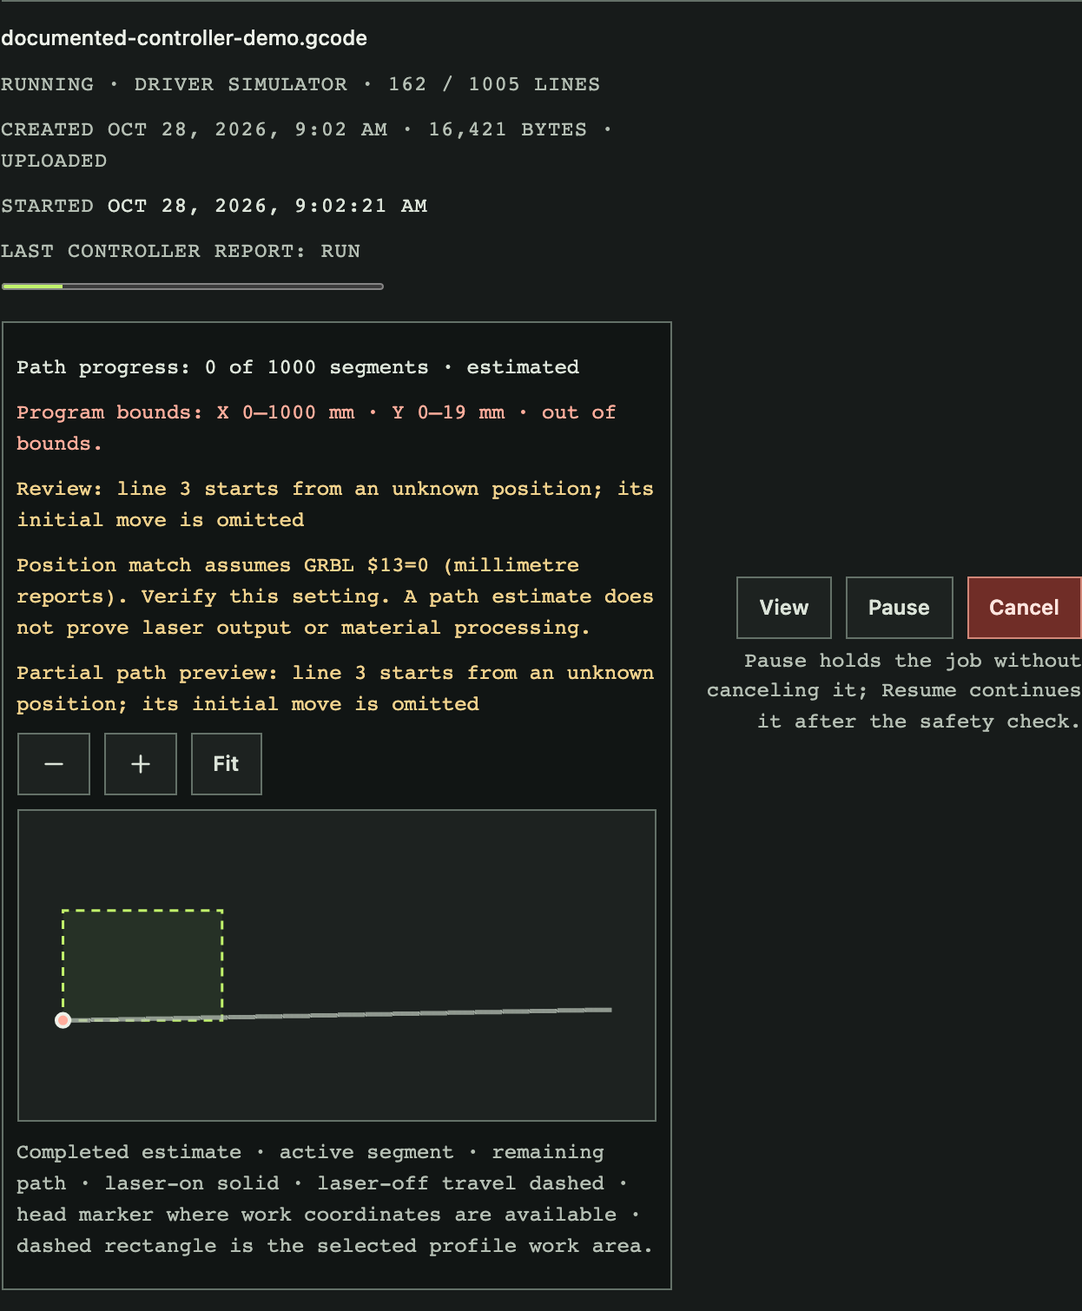
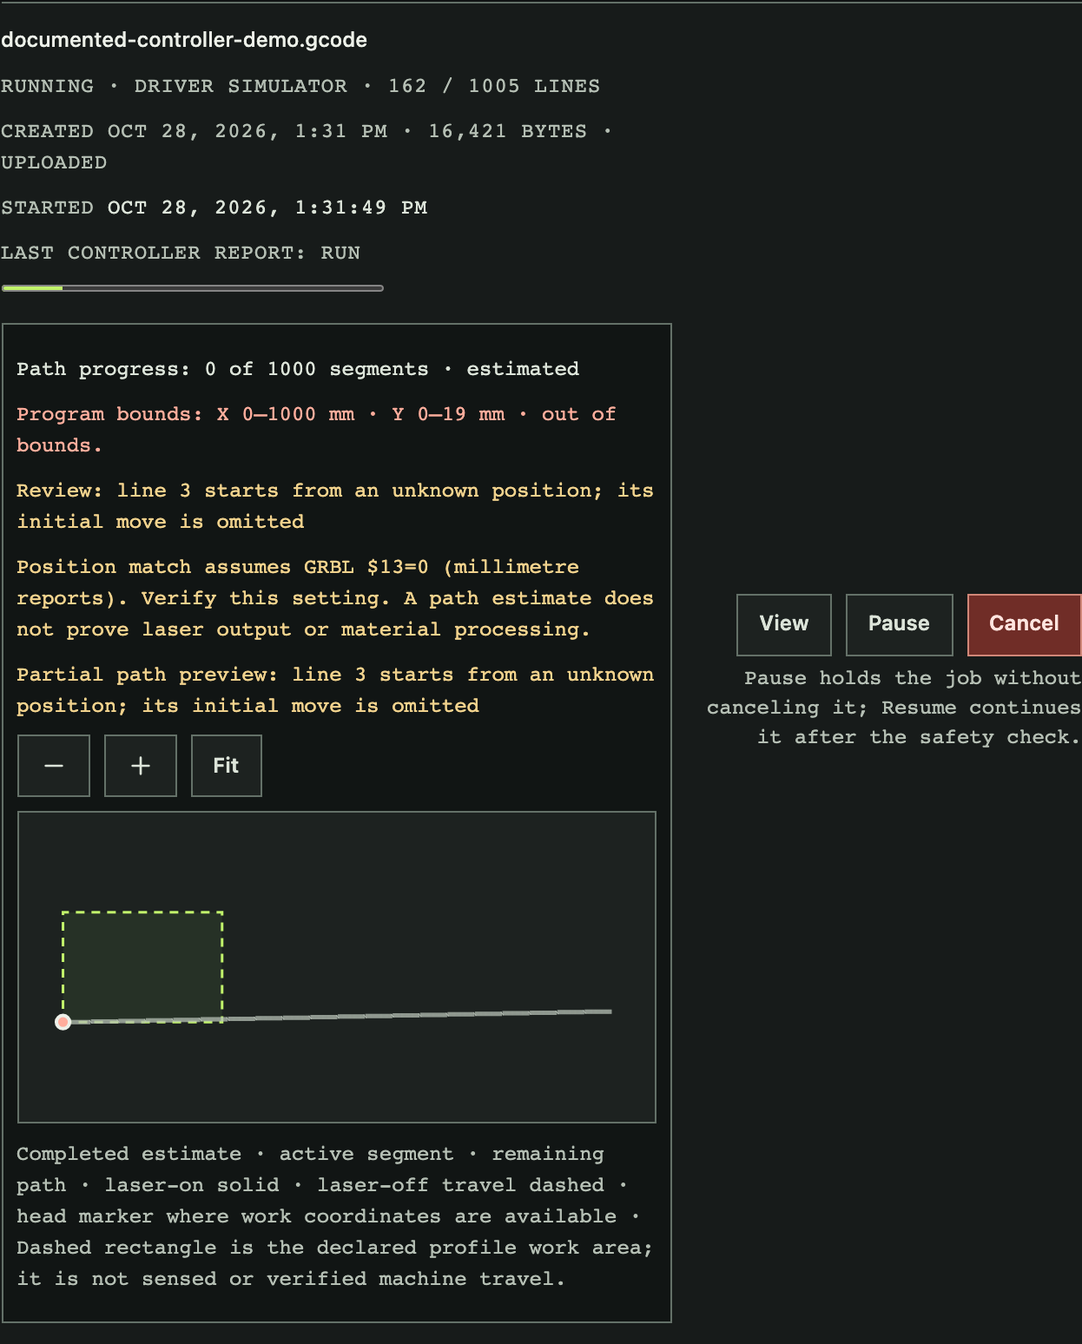
feat(preview): show declared profile bounds for generated jobs

diff --git a/internal/server/assets/app.js b/internal/server/assets/app.js
@@ -64,7 +64,9 @@
   let vectorPointerDrag = null;
   let vectorIDSequence = 0;
   const toolpathCache = new Map();
+  const generatedReviewCache = new Map();
   const toolpathViewports = new Map();
+  let profileRevisionKey = null;
   const boundsOverrides = new Set();
 
   function clearNotice({ connectionOnly = false } = {}) {
@@ -204,6 +206,8 @@
     manualRecords.clear();
     $("#manual-confirmation").checked = false;
     toolpathCache.clear();
+    generatedReviewCache.clear();
+    profileRevisionKey = null;
     toolpathViewports.clear();
     profiles = [];
     projects = [];
@@ -406,6 +410,10 @@
     try {
       const [nextProfiles, nextProjects] = await Promise.all([api("/api/v1/profiles"), api("/api/v1/projects")]);
       if (!connected || version !== sessionVersion) return;
+      const nextProfileRevisionKey = JSON.stringify((Array.isArray(nextProfiles) ? nextProfiles : [])
+        .map((profile) => [profile.id, profile.revision, profile.width_mm, profile.height_mm]).sort(([left], [right]) => left.localeCompare(right)));
+      if (profileRevisionKey !== null && profileRevisionKey !== nextProfileRevisionKey) generatedReviewCache.clear();
+      profileRevisionKey = nextProfileRevisionKey;
       profiles = Array.isArray(nextProfiles) ? nextProfiles : [];
       projects = Array.isArray(nextProjects) ? nextProjects : [];
       renderProfiles();
@@ -1776,7 +1784,7 @@
         progress.setAttribute("aria-label", `${job.acked || 0} of ${job.total || 0} lines acknowledged`);
         info.append(progress);
       }
-      if (active || job.execution || review) {
+      if (active || job.execution || review || job.provenance) {
         const toolpathView = document.createElement("section");
         toolpathView.className = "toolpath-live";
         toolpathView.dataset.toolpathJob = job.id;
@@ -1875,11 +1883,13 @@
 
   function renderToolpathView(host, job, path, review) {
     host.replaceChildren();
+    const profileBounds = review?.profile_stale ? null : review?.profile_bounds;
+    const live = ["running", "pausing", "paused", "resuming", "canceling"].includes(job.state);
     const execution = job.execution || {};
     const progress = execution.path_progress || { completed: 0, total: path.segments.length, confidence: "unknown" };
     const summary = document.createElement("p");
     summary.className = "toolpath-summary";
-    summary.textContent = job.execution ? `Path progress: ${progress.completed || 0} of ${progress.total || 0} segments · ${progress.confidence || "unknown"}` : `Static program review · bounds ${review?.bounds_status || "unknown"} · execution not reported`;
+    summary.textContent = job.execution ? `Path progress: ${progress.completed || 0} of ${progress.total || 0} segments · ${progress.confidence || "unknown"}` : live ? `Live job toolpath · bounds ${review?.bounds_status || "unknown"} · controller execution progress not reported` : `Static program review · bounds ${review?.bounds_status || "unknown"} · execution not reported`;
     host.append(summary);
     if (review?.bounds) {
       const boundsText = document.createElement("p");
@@ -1920,7 +1930,7 @@
     }
 
     const points = path.segments.flatMap((segment) => [segment.start, segment.end]);
-    if (review?.profile_bounds) points.push(review.profile_bounds.min, review.profile_bounds.max);
+    if (profileBounds) points.push(profileBounds.min, profileBounds.max);
     const workPosition = job.state !== "interrupted" && execution.position_units === "assumed-mm" ? execution.work_position : null;
     if (job.state === "interrupted" && execution.work_position) {
       const stalePosition = document.createElement("p");
@@ -1941,13 +1951,12 @@
     const svg = document.createElementNS(svgNS, "svg");
     svg.setAttribute("viewBox", `${view.x} ${view.y} ${view.width} ${view.height}`);
     svg.setAttribute("role", "img");
-    svg.setAttribute("aria-label", job.execution ? `Fitted XY execution preview for ${job.name}; completed estimate, active path and remaining paths are shown` : `Fitted static XY program preview for ${job.name}`);
+    svg.setAttribute("aria-label", job.execution ? `Fitted XY execution preview for ${job.name}; completed estimate, active path and remaining paths are shown${profileBounds ? "; declared profile work area shown, not verified machine travel" : ""}` : live ? `Live XY program preview for ${job.name}; controller execution progress is not reported${profileBounds ? "; declared profile work area shown, not verified machine travel" : ""}` : `Fitted static XY program preview for ${job.name}${profileBounds ? "; declared profile work area shown, not verified machine travel" : ""}`);
     svg.setAttribute("preserveAspectRatio", "xMidYMid meet");
     svg.classList.add("toolpath-svg");
     const group = document.createElementNS(svgNS, "g");
     group.setAttribute("transform", "scale(1 -1)");
-    if (review?.profile_bounds) {
-      const profileBounds = review.profile_bounds;
+    if (profileBounds) {
       const box = document.createElementNS(svgNS, "rect");
       box.setAttribute("class", "toolpath-profile-bounds");
       box.setAttribute("x", profileBounds.min.x); box.setAttribute("y", profileBounds.min.y);
@@ -1999,20 +2008,30 @@
     const legend = document.createElement("p");
     legend.className = "toolpath-legend";
     const headLegend = job.state === "interrupted" ? "head marker hidden after interruption because the last report may be stale" : "head marker where work coordinates are available";
+    const profileLabel = profileBounds
+      ? "Dashed rectangle is the declared profile work area; it is not sensed or verified machine travel."
+      : review?.profile_stale
+        ? "Declared profile work area is stale because the profile changed or was removed; no rectangle is shown."
+        : "Declared profile work area is unavailable; no rectangle is shown.";
     legend.textContent = job.execution
-      ? (review?.profile_bounds ? `Completed estimate · active segment · remaining path · laser-on solid · laser-off travel dashed · ${headLegend} · dashed rectangle is the selected profile work area.` : `Completed estimate · active segment · remaining path · laser-on solid · laser-off travel dashed · ${headLegend}. Machine bounds are unknown without a selected profile.`)
-      : (review?.profile_bounds ? "Program motion · laser-on solid · laser-off travel dashed · dashed rectangle is the selected profile work area." : "Program motion · laser-on solid · laser-off travel dashed · machine bounds are unknown without a selected profile.");
+      ? `Completed estimate · active segment · remaining path · laser-on solid · laser-off travel dashed · ${headLegend} · ${profileLabel}`
+      : `Program motion · laser-on solid · laser-off travel dashed · ${profileLabel}`;
     host.append(controls, svg, legend);
   }
 
   async function refreshToolpathViews() {
     for (const job of jobs) {
-      if (!(job.program_review || job.execution || ["running", "pausing", "paused", "resuming", "canceling"].includes(job.state))) continue;
+      if (!(job.program_review || job.provenance || job.execution || ["running", "pausing", "paused", "resuming", "canceling"].includes(job.state))) continue;
       const host = Array.from(list.querySelectorAll(".toolpath-live")).find((node) => node.dataset.toolpathJob === job.id);
       if (!host) continue;
       try {
         if (!toolpathCache.has(job.id)) toolpathCache.set(job.id, await api(`/api/v1/jobs/${encodeURIComponent(job.id)}/toolpath`));
-        renderToolpathView(host, job, toolpathCache.get(job.id), job.program_review);
+        let review = job.program_review;
+        if (job.provenance) {
+          if (!generatedReviewCache.has(job.id)) generatedReviewCache.set(job.id, await api(`/api/v1/jobs/${encodeURIComponent(job.id)}/review`));
+          review = generatedReviewCache.get(job.id);
+        }
+        renderToolpathView(host, job, toolpathCache.get(job.id), review);
       } catch (error) {
         host.textContent = `Toolpath preview unavailable: ${error.message}`;
       }

diff --git a/e2e/designer.spec.js b/e2e/designer.spec.js
@@ -8,8 +8,11 @@ test('operator saves a declared profile, edits a bounded rectangle, and reviews 
   const profileName = `E2E declared GRBL ${attempt}`;
   const projectName = `E2E panel outline ${attempt}`;
   const startRequests = [];
+  const generatedReviewRequests = new Map();
   page.on('request', (request) => {
     if (request.method() === 'POST' && /\/api\/v1\/jobs\/[^/]+\/start$/.test(new URL(request.url()).pathname)) startRequests.push(request);
+    const reviewPath = new URL(request.url()).pathname.match(/\/api\/v1\/jobs\/([^/]+)\/review$/);
+    if (request.method() === 'GET' && reviewPath) generatedReviewRequests.set(reviewPath[1], (generatedReviewRequests.get(reviewPath[1]) || 0) + 1);
   });
   await page.goto('/designer');
   await page.locator('#api-key').fill(apiKey);
@@ -93,6 +96,18 @@ test('operator saves a declared profile, edits a bounded rectangle, and reviews 
   await page.getByRole('link', { name: 'Job library' }).click();
   const row = page.locator('#job-list li').filter({ hasText: `${projectName}.gcode` });
   await expect(row).toContainText(/queued/i);
+  await expect(row.locator('.toolpath-live')).toBeVisible();
+  await expect(row.locator('.toolpath-profile-bounds')).toHaveCount(1);
+  await expect(row.locator('.toolpath-legend')).toContainText(/declared profile work area/i);
+  await expect(row.getByRole('img', { name: /declared profile work area shown, not verified machine travel/i })).toBeVisible();
+  await expect(row.getByRole('button', { name: 'Fit toolpath to view' })).toBeVisible();
+  const jobID = await row.getByRole('button', { name: /^View / }).getAttribute('data-job-id');
+  const reviewCount = () => generatedReviewRequests.get(jobID) || 0;
+  await expect.poll(reviewCount).toBeGreaterThan(0);
+  await page.waitForTimeout(2200);
+  const stableReviewCount = reviewCount();
+  await page.waitForTimeout(2200);
+  expect(reviewCount()).toBe(stableReviewCount);
   await row.getByRole('button', { name: /^View / }).click();
   await expect(page.locator('#program-panel')).toBeVisible();
   await expect(page.locator('#program-code')).toContainText('G0 X11 Y20');
@@ -106,7 +121,34 @@ test('operator saves a declared profile, edits a bounded rectangle, and reviews 
   await row.getByRole('button', { name: /^Start / }).click();
   await page.getByRole('dialog').getByRole('button', { name: 'Start on simulator' }).click();
   await expect.poll(() => startRequests.length).toBe(1);
+  await expect(row.locator('.toolpath-live')).toHaveAttribute('aria-label', /Live toolpath for/);
   await expect(row).toContainText(/completed/i, { timeout: 30000 });
+
+  const uploadedStaleName = await page.evaluate(async ({ jobID, apiKey, projectName }) => {
+    const headers = { Authorization: `Bearer ${apiKey}`, 'Content-Type': 'application/json' };
+    const job = await (await fetch(`/api/v1/jobs/${jobID}`, { headers })).json();
+    const profileID = job.provenance.profile.id;
+    const profile = await (await fetch(`/api/v1/profiles/${profileID}`, { headers })).json();
+    const uploadedName = `${projectName} uploaded.gcode`;
+    const uploadResponse = await fetch('/api/v1/jobs', { method: 'POST', headers, body: JSON.stringify({ name: uploadedName, profile_id: profileID, gcode: 'G21 G90\nG0 X10 Y10\nG1 X40 Y10 F600\nM5\n' }) });
+    if (!uploadResponse.ok) throw new Error(`Could not create stale uploaded test job: ${uploadResponse.status}`);
+    const update = {
+      schema_version: profile.schema_version, name: profile.name, controller: profile.controller,
+      units: profile.units, origin: profile.origin, width_mm: 280, height_mm: profile.height_mm,
+      min_s: profile.min_s, max_s: profile.max_s, min_feed_mm_min: profile.min_feed_mm_min,
+      max_feed_mm_min: profile.max_feed_mm_min, max_power_percent: profile.max_power_percent,
+      laser_mode_enabled: profile.laser_mode_enabled, revision: profile.revision,
+    };
+    const response = await fetch(`/api/v1/profiles/${profileID}`, { method: 'PUT', headers, body: JSON.stringify(update) });
+    if (!response.ok) throw new Error(`Could not revise test profile: ${response.status} ${(await response.text())}`);
+    return uploadedName;
+  }, { jobID, apiKey, projectName });
+  await expect.poll(reviewCount).toBeGreaterThan(stableReviewCount);
+  await expect(row.locator('.toolpath-profile-bounds')).toHaveCount(0);
+  await expect(row.locator('.toolpath-legend')).toContainText(/declared profile work area is stale/i);
+  const staleUploadedRow = page.locator('#job-list li').filter({ hasText: uploadedStaleName });
+  await expect(staleUploadedRow.locator('.toolpath-profile-bounds')).toHaveCount(0);
+  await expect(staleUploadedRow.locator('.toolpath-legend')).toContainText(/declared profile work area is stale/i);
 
   const generatedCode = await page.locator('#program-code').textContent();
   await page.getByRole('link', { name: 'Designer' }).click();

diff --git a/e2e/capture-docs.js b/e2e/capture-docs.js
@@ -244,6 +244,53 @@ async function main() {
     await designerRow.getByRole('button', { name: /^View / }).click();
     await expect(page.locator('#program-provenance')).toContainText('Panel outline');
     await captureElement(page, '#program-provenance', 'designer-generated-review.png');
+    const sourceJobID = await designerRow.getByRole('button', { name: /^View / }).getAttribute('data-job-id');
+    await page.locator('#close-program').click();
+    const runningGenerated = await page.evaluate(async (sourceJobID) => {
+      const headers = { Authorization: `Bearer ${sessionStorage.getItem('emberdeck-api-key')}`, 'Content-Type': 'application/json' };
+      const source = await (await fetch(`/api/v1/jobs/${sourceJobID}`, { headers })).json();
+      const profile = source.provenance.profile;
+      const points = [{ x_mm: 0, y_mm: 0 }, { x_mm: 10, y_mm: 0 }, ...Array.from({ length: 500 }, (_, index) => {
+        const row = Math.floor(index / 25);
+        const column = index % 25;
+        return { x_mm: 10 + (row % 2 === 0 ? column : 24 - column) * 10, y_mm: 10 + row * 9 };
+      })];
+      const projectResponse = await fetch('/api/v1/projects', {
+        method: 'POST', headers,
+        body: JSON.stringify({
+          schema_version: 2, name: 'Running generated profile view', units: 'mm',
+          profile_id: profile.id, profile_revision: profile.revision,
+          objects: [{ id: 'running-path', kind: 'path', operation_id: 'running-engrave', subpaths: [{ points, closed: false }] }],
+          operations: [{ id: 'running-engrave', type: 'vector-engrave', feed_mm_min: 600, power_percent: 25 }],
+        }),
+      });
+      if (!projectResponse.ok) throw new Error(`Could not create long generated screenshot project: ${projectResponse.status} ${await projectResponse.text()}`);
+      const project = await projectResponse.json();
+      const jobResponse = await fetch(`/api/v1/projects/${project.id}/generate`, { method: 'POST', headers, body: JSON.stringify({ revision: project.revision }) });
+      if (!jobResponse.ok) throw new Error(`Could not generate screenshot job: ${jobResponse.status} ${await jobResponse.text()}`);
+      return { project, job: await jobResponse.json() };
+    }, sourceJobID);
+    await page.locator('#refresh').click();
+    const runningGeneratedRow = page.locator('#job-list li').filter({ hasText: runningGenerated.job.name });
+    await expect(runningGeneratedRow).toContainText(/queued/i);
+    await page.locator('#operator-confirmation').check();
+    await runningGeneratedRow.getByRole('button', { name: /^Start / }).click();
+    const generatedStart = page.getByRole('dialog', { name: /Start Running generated profile view\.gcode\?/ });
+    await generatedStart.getByRole('button', { name: 'Start on simulator' }).click();
+    await expect(runningGeneratedRow).toContainText(/running/i);
+    await expect(runningGeneratedRow.locator('.toolpath-summary')).toContainText(/Path progress:/, { timeout: 15000 });
+    await expect(runningGeneratedRow.locator('.toolpath-segment.path-active')).toHaveCount(1);
+    await expect(runningGeneratedRow.locator('.toolpath-profile-bounds')).toHaveCount(1);
+    await expect(runningGeneratedRow.locator('.toolpath-legend')).toContainText(/not sensed or verified machine travel/i);
+    await captureElement(page, '#job-list li:has-text("Running generated profile view.gcode")', 'operator-console-running-generated-view.png');
+    await expect(runningGeneratedRow).toContainText(/completed/i, { timeout: 30000 });
+    page.once('dialog', (dialog) => dialog.accept());
+    await runningGeneratedRow.getByRole('button', { name: /Delete Running generated profile view\.gcode/ }).click();
+    await expect(runningGeneratedRow).toHaveCount(0);
+    await page.evaluate(async (projectID) => {
+      const response = await fetch(`/api/v1/projects/${projectID}`, { method: 'DELETE', headers: { Authorization: `Bearer ${sessionStorage.getItem('emberdeck-api-key')}`, 'Content-Type': 'application/json' }, body: JSON.stringify({ revision: 1 }) });
+      if (!response.ok) throw new Error(`Could not remove screenshot project: ${response.status}`);
+    }, runningGenerated.project.id);
     await page.getByRole('link', { name: 'Designer' }).click();
     await page.setViewportSize({ width: 375, height: 812 });
     await captureElement(page, 'section[aria-labelledby="projects-title"]', 'designer-mobile.png');

diff --git a/internal/server/toolpath.go b/internal/server/toolpath.go
@@ -28,6 +28,7 @@ func (s *Server) getToolpath(w http.ResponseWriter, r *http.Request) {
 type ProgramReview struct {
 	ProfileID       string           `json:"profile_id,omitempty"`
 	ProfileRevision int              `json:"profile_revision,omitempty"`
+	ProfileStale    bool             `json:"profile_stale,omitempty"`
 	BoundsStatus    string           `json:"bounds_status"`
 	Bounds          *toolpath.Bounds `json:"bounds,omitempty"`
 	ProfileBounds   *toolpath.Bounds `json:"profile_bounds,omitempty"`
@@ -49,7 +50,8 @@ func reviewProgram(source string, profile *MachineProfile, stale bool) ProgramRe
 	review.ProfileID, review.ProfileRevision = profile.ID, profile.Revision
 	review.ProfileBounds = &toolpath.Bounds{Min: toolpath.Point{}, Max: toolpath.Point{X: profile.WidthMM, Y: profile.HeightMM}}
 	if stale {
-		review.Warnings = append(review.Warnings, "the selected machine profile changed or was deleted after upload")
+		review.ProfileStale = true
+		review.Warnings = append(review.Warnings, "the declared machine profile changed or was deleted after this job was created")
 		return review
 	}
 	if review.Bounds == nil {
@@ -89,7 +91,8 @@ func (s *Server) currentReview(job Job) *ProgramReview {
 	profile, exists := s.profiles[job.ProfileID]
 	if !exists || profile.Revision != job.ProfileRevision {
 		copy.BoundsStatus = "unknown"
-		copy.Warnings = append(copy.Warnings, "the selected machine profile changed or was deleted after upload")
+		copy.ProfileStale = true
+		copy.Warnings = append(copy.Warnings, "the declared machine profile changed or was deleted after this job was created")
 	}
 	return &copy
 }
@@ -103,6 +106,11 @@ func (s *Server) getJobReview(w http.ResponseWriter, r *http.Request) {
 		return
 	}
 	review := s.currentReview(record.Job)
+	var generatedStale bool
+	if record.Provenance != nil {
+		profile, exists := s.profiles[record.Provenance.Profile.ID]
+		generatedStale = !exists || profile.Revision != record.Provenance.Profile.Revision
+	}
 	s.mu.Unlock()
 	gcode, ok := s.program(w, record)
 	if !ok {
@@ -110,7 +118,7 @@ func (s *Server) getJobReview(w http.ResponseWriter, r *http.Request) {
 	}
 	if review == nil && record.Provenance != nil {
 		profile := record.Provenance.Profile
-		generatedReview := reviewProgram(gcode, &profile, false)
+		generatedReview := reviewProgram(gcode, &profile, generatedStale)
 		review = &generatedReview
 	}
 	program := toolpath.Parse(gcode)

diff --git a/internal/server/designer_backend_test.go b/internal/server/designer_backend_test.go
@@ -600,6 +600,10 @@ func TestGenerateCreatesValidatedQueuedJobWithImmutableSourceSnapshots(t *testin
 	if w := request(t, s, "DELETE", "/api/v1/profiles/"+profileID, `{"revision":1}`, "test-key"); w.Code != http.StatusNoContent {
 		t.Fatalf("delete source profile: %d %s", w.Code, w.Body.String())
 	}
+	jobReview := request(t, s, "GET", "/api/v1/jobs/"+job.ID+"/review", "", "test-key")
+	if jobReview.Code != http.StatusOK || !strings.Contains(jobReview.Body.String(), `"profile_stale":true`) || !strings.Contains(jobReview.Body.String(), `"bounds_status":"unknown"`) {
+		t.Fatalf("generated job review did not report its stale profile: %d %s", jobReview.Code, jobReview.Body.String())
+	}
 	if err := s.Close(); err != nil {
 		t.Fatal(err)
 	}

diff --git a/internal/server/server_test.go b/internal/server/server_test.go
@@ -107,7 +107,7 @@ func TestUploadedProgramReviewReportsProfileBoundsAndUnknownMotion(t *testing.T)
 		t.Fatalf("update profile: %d %s", w.Code, w.Body.String())
 	}
 	w = request(t, s, "GET", "/api/v1/jobs/"+job.ID+"/review", "", "test-key")
-	if w.Code != http.StatusOK || !strings.Contains(w.Body.String(), `"bounds_status":"unknown"`) || !strings.Contains(w.Body.String(), "changed or was deleted") {
+	if w.Code != http.StatusOK || !strings.Contains(w.Body.String(), `"bounds_status":"unknown"`) || !strings.Contains(w.Body.String(), `"profile_stale":true`) || !strings.Contains(w.Body.String(), "changed or was deleted") {
 		t.Fatalf("stale profile review = %d %s", w.Code, w.Body.String())
 	}
 }

diff --git a/docs/operator-guide.md b/docs/operator-guide.md
@@ -374,10 +374,13 @@ existing readiness confirmation and **Start** control to dispatch.
 The job row shows controller-acknowledged lines separately from the spatial
 toolpath. Open **View** during a supported run to see completed, active, and
 remaining XY segments, laser-off travel, and the latest available work position.
-Use **+**, **−**, **Fit**, or drag the plot to inspect it. The plot fits the
-program geometry; it does not know the physical machine bounds. An estimated
-head position assumes GRBL reports millimetres (`$13=0`), and the UI labels that
-assumption. A repeated or overlapping path can make correlation ambiguous;
+Use **+**, **−**, **Fit**, or drag the plot to inspect it. When a current profile
+is available, the plot includes its declared work area as a dashed rectangle.
+This is operator-declared profile data; it is not sensed or verified machine
+travel. If the profile changed or was removed, the preview hides the rectangle
+and reports that its work area is stale. An estimated head position assumes
+GRBL reports millimetres (`$13=0`), and the UI labels that assumption. A
+repeated or overlapping path can make correlation ambiguous;
 missing coordinates, disconnects, pauses, and restarts can leave progress
 unknown. If the server marks a job interrupted, its last reported work position
 remains in the job record for context, but the plot hides the head marker because
@@ -394,6 +397,8 @@ operator supervision, an enclosure interlock, or an emergency stop.
 ![Running job with its authenticated camera feed beside progress and controls](assets/screenshots/operator-camera-monitor.png)
 
 ![Running program with estimated live toolpath, head marker, legend, and G-code source open](assets/screenshots/operator-console-running-view.png)
+
+![Running designer-generated program with its declared profile work area clearly marked as not verified machine travel](assets/screenshots/operator-console-running-generated-view.png)
 
 ## Pause and resume
 

diff --git a/docs/api.md b/docs/api.md
@@ -168,10 +168,16 @@ uploaded jobs, an optional `program_review` summary. The review's
 power mode, which keeps output on while motion stops. No operator endpoint
 returns a lease. `GET /jobs/{id}/review` returns the selected profile's
 revision, program bounds, profile envelope, bounds status (`in_bounds`,
-`out_of_bounds`, or `unknown`), warnings, and derived path. A partial path can
-show known bounds while its status remains `unknown`. A changed/deleted profile
-also makes the status unknown. `GET /jobs/{id}/toolpath` returns a derived 2D
-path for visualization; it does not change or validate the uploaded source. `DELETE /jobs/{id}` removes a queued or terminal job;
+`out_of_bounds`, or `unknown`), warnings, and derived path. `profile_stale` is
+true when the declared profile is missing or its revision changed since the job
+was uploaded or generated. In that case bounds status is `unknown`;
+`profile_bounds`, when present, is the saved profile snapshot for context and
+must not be shown as the current work area. The profile envelope is
+operator-declared information, not sensed or verified machine travel. A partial
+path can show known bounds while its status remains `unknown`. `GET
+/jobs/{id}/toolpath` returns a derived 2D path for visualization; it does not
+change or validate the uploaded source. `DELETE /jobs/{id}` removes a queued or
+terminal job;
 a running or canceling job must first stop. These operations persist to the
 private data directory. Run one server per directory; file locking enforces it.
 
